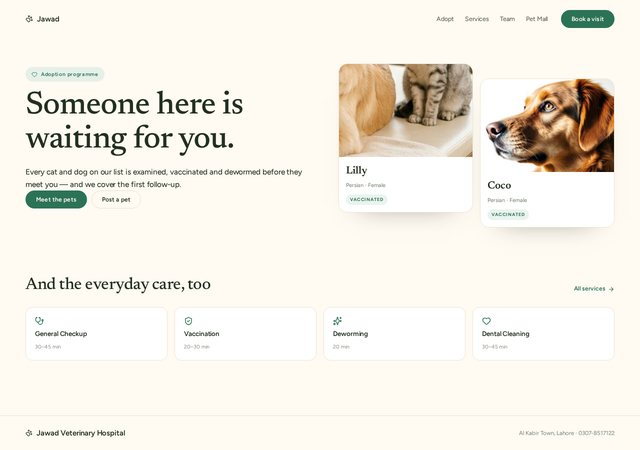
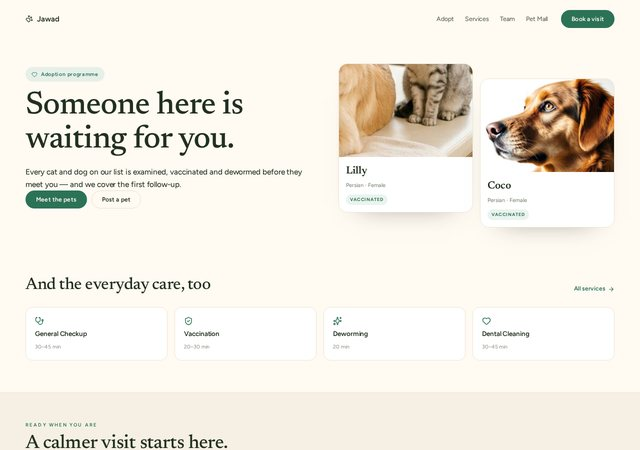
Round out the sample home pages with a shared closing band
Every one of the twenty studies now ends with a booking CTA, the three
client reviews and a trust strip, all styled from that study's own tokens
so each keeps its typography and palette. Also tightens mobile navigation:
the Swiss nav collapses, clinical's phone/CTA wraps, footer lockups drop
the display letter-spacing, and every page is checked for horizontal
overflow at 390px.

Changed region(s): [[0.0312, 0.9333, 0.375, 1.0], [0.9062, 0.9333, 0.9375, 0.9644], [0.8125, 0.9333, 0.8438, 0.9644]]

diff --git a/src/app/sample/samples.css b/src/app/sample/samples.css
@@ -42,7 +42,7 @@
 /* ── shared base ──────────────────────────────────────────────────── */
 .smp { --serif: 'Cormorant Garamond Variable', Georgia, serif; --sans: 'Instrument Sans Variable', Arial, sans-serif;
   --i: #14231f; --a: #1c5d5c; --p: #fbf7ee; --s: #f4eee1; --line: #e3dac8;
-  font-family: var(--sans); color: var(--i); background: var(--p); min-height: 100dvh;
+  font-family: var(--sans); color: var(--i); background: var(--p); min-height: 100dvh; overflow-x: clip;
   display: flex; flex-direction: column; -webkit-font-smoothing: antialiased; }
 .smp * { box-sizing: border-box; }
 .smp h1, .smp h2, .smp h3 { font-family: var(--serif); font-weight: 500; margin: 0; letter-spacing: -0.015em; line-height: 1.06; }
@@ -131,19 +131,77 @@
 .smp-stat b { display: block; font-family: var(--serif); font-size: 34px; font-weight: 500; line-height: 1; }
 .smp-stat span { display: block; margin-top: 7px; font-size: 9px; letter-spacing: .18em; text-transform: uppercase; opacity: .6; }
 
+.smp-foot .smp-brand { letter-spacing: .01em; font-size: 14px; }
 .smp-foot { margin-top: auto; border-top: 1px solid var(--line); padding: 22px clamp(18px, 4vw, 56px); }
 .smp-foot-in { display: flex; align-items: center; justify-content: space-between; gap: 16px; flex-wrap: wrap; }
 .smp-foot-meta { font-size: 11.5px; color: #7d8c88; }
 
 @media (max-width: 900px) {
+  .smp--swiss .smp-nav nav { display: none; }
   .smp-hero, .smp-split { grid-template-columns: 1fr; }
   .smp-grid-3, .smp-grid-4 { grid-template-columns: repeat(2, 1fr); }
   .smp-nav nav { display: none; }
   .smp-nav-center { display: flex; }
 }
 @media (max-width: 560px) {
+  .smp-nav { flex-wrap: wrap; row-gap: 12px; }
+  .smp-nav-cta { margin-left: auto; }
   .smp-grid-3, .smp-grid-4 { grid-template-columns: 1fr; }
   .smp-hero-copy h1 { font-size: 38px; }
+}
+
+
+/* ── shared closing band (inherits each study's own tokens) ─────────── */
+.smp-tail { padding: clamp(34px, 4.4vw, 60px) clamp(18px, 4vw, 56px) clamp(24px, 3vw, 34px); background: var(--s); color: var(--i); border-top: 1px solid var(--line); }
+.smp-tail-in { display: flex; align-items: flex-end; justify-content: space-between; gap: 28px; flex-wrap: wrap; }
+.smp-tail-copy { max-width: 46ch; display: grid; gap: 10px; }
+.smp-tail-copy h2 { font-size: clamp(26px, 3vw, 40px); }
+.smp-tail-copy p { font-size: 13px; line-height: 1.7; opacity: .72; }
+.smp-tail-actions { display: flex; flex-wrap: wrap; gap: 9px; }
+.smp-tail-reviews { display: grid; grid-template-columns: repeat(3, minmax(0, 1fr)); gap: 0; margin-top: 32px; padding-top: 22px; border-top: 1px solid var(--line); }
+.smp-tail-reviews figure { display: grid; gap: 8px; align-content: start; margin: 0; padding: 0 24px 0 0; border-right: 1px solid var(--line); }
+.smp-tail-reviews figure + figure { padding-left: 24px; }
+.smp-tail-reviews figure:last-child { border-right: 0; padding-right: 0; }
+.smp-tail-reviews blockquote { margin: 0; font-family: var(--serif); font-size: 15.5px; line-height: 1.55; letter-spacing: -.005em; min-height: 3.1em; }
+.smp-tail-reviews figcaption { font-size: 10px; letter-spacing: .12em; text-transform: uppercase; opacity: .58; }
+.smp-tail-strip { display: flex; flex-wrap: wrap; gap: 14px 30px; margin-top: 32px; padding-top: 18px; border-top: 1px solid var(--line); font-size: 11px; letter-spacing: .02em; opacity: .68; }
+.smp-tail-strip li { display: flex; align-items: center; gap: 6px; }
+.smp-tail-strip svg { opacity: .7; flex: none; }
+
+.smp--brutal .smp-tail { border-top: 2px solid #111; }
+.smp--brutal .smp-tail .smp-btn-2 { border: 2px solid #111; border-radius: 0; color: #111; box-shadow: 4px 4px 0 #111; }
+.smp--brutal .smp-tail-strip { border-top: 2px solid #111; opacity: .8; }
+.smp--midnight .smp-tail { background: #0b0f0d; border-top: 1px solid rgba(201, 169, 97, .22); }
+.smp--midnight .smp-tail .smp-btn-2 { border-color: rgba(201, 169, 97, .45); color: #d9c48e; }
+.smp--midnight .smp-tail .smp-kicker { color: #c9a961; }
+.smp--immersive .smp-tail { background: #0c1513; border-top: 1px solid rgba(246, 242, 231, .12); }
+.smp--immersive .smp-tail .smp-kicker { color: #d8c590; }
+.smp--glass .smp-tail { position: relative; z-index: 2; background: rgba(255, 255, 255, .05); border-top: 1px solid rgba(255, 255, 255, .12); }
+.smp--glass .smp-tail .smp-kicker { color: #9fe0c6; }
+.smp--app .smp-tail { grid-column: 1 / -1; background: #fff; }
+.smp--app .smp-tail-strip { opacity: .8; }
+.smp--app .smp-tail .smp-kicker { color: #1f6f62; }
+.smp--editorial .smp-tail { background: #f7f2e6; }
+.smp--swiss .smp-tail { border-top: 2px solid #111; }
+.smp--swiss .smp-tail .smp-btn { border-radius: 0; }
+.smp--swiss .smp-tail .smp-btn-2 { border-radius: 0; }
+.smp--brutal .smp-tail .smp-btn, .smp--brutal .smp-tail .smp-btn-2 { border-radius: 0; }
+.smp--duotone .smp-tail { background: #102a26; color: #fdf3e6; border-top: 0; }
+.smp--duotone .smp-tail .smp-kicker { color: #e86f43; }
+.smp--duotone .smp-tail .smp-btn { background: #e86f43; color: #fff; }
+.smp--duotone .smp-tail .smp-btn-2 { border-color: rgba(253, 243, 230, .35); color: #fdf3e6; }
+.smp--duotone .smp-tail-strip { border-top-color: rgba(253, 243, 230, .2); }
+.smp--cover .smp-tail { background: #efe7d7; }
+.smp--heritage .smp-tail { background: #f2ebdb; border-top: 3px double #c2ad86; }
+.smp--mall .smp-tail .smp-btn-2 { border-color: #cfc3aa; }
+@media (max-width: 860px) {
+  .smp-tail-in { align-items: flex-start; }
+  .smp-tail-reviews { grid-template-columns: 1fr; gap: 16px; }
+  .smp-tail-reviews figure { border-right: 0; border-bottom: 1px solid var(--line); padding: 0 0 14px; }
+  .smp-tail-reviews figure + figure { padding-left: 0; }
+  .smp-tail-reviews figure:last-child { border-bottom: 0; padding-bottom: 8px; }
+  .smp-tail-strip { margin-top: 28px; }
+  .smp--app .smp-tail { grid-column: auto; }
 }
 
 /* ══ 01 · AURORA SPLIT ══════════════════════════════════════════════════ */
@@ -214,7 +272,7 @@
 }
 .smp--midnight .smp-nav { border-bottom: 1px solid rgba(201, 169, 97, .18); padding-block: 22px; }
 .smp--midnight .smp-nav nav { font-size: 10.5px; letter-spacing: .18em; text-transform: uppercase; color: rgba(244, 239, 227, .68); }
-.smp--midnight .smp-brand { font-family: var(--serif); font-size: 19px; letter-spacing: .3em; }
+.smp--midnight .smp-nav .smp-brand { font-family: var(--serif); font-size: 19px; letter-spacing: .3em; }
 .smp--midnight .smp-btn-line { background: transparent; border-color: rgba(201, 169, 97, .55); color: #d9c48e; font-size: 10.5px; letter-spacing: .14em; text-transform: uppercase; }
 .smp--midnight .smp-btn-line:hover { background: rgba(201, 169, 97, .12); }
 .smp--midnight .smp-hero-mid { padding-block: clamp(50px, 7vw, 92px); align-items: end; }
@@ -499,8 +557,8 @@
   display: grid; grid-template-columns: 244px minmax(0, 1fr); background: #f7f8f9; --sans: 'Figtree Variable', Arial, sans-serif;
 }
 .smp--app .smp-side {
-  position: sticky; top: 44px; align-self: start; display: flex; flex-direction: column; gap: 22px;
-  height: calc(100dvh - 44px); padding: 22px 16px; background: #12302b; color: #dfe9e4;
+  display: flex; flex-direction: column; gap: 22px; align-self: stretch;
+  padding: 22px 16px; background: #12302b; color: #dfe9e4;
 }
 .smp--app .smp-side .smp-brand { font-family: var(--serif); font-size: 21px; color: #fff; padding-left: 6px; }
 .smp--app .smp-side nav { display: grid; gap: 3px; }
@@ -556,7 +614,8 @@
   --serif: 'Bodoni Moda Variable', 'Times New Roman', serif; background: #fdf3e6;
 }
 .smp--duotone .smp-nav-invert { padding-block: 20px; }
-.smp--duotone .smp-brand { font-size: 13px; letter-spacing: .3em; font-weight: 700; }
+.smp--duotone .smp-nav .smp-brand { font-size: 13px; letter-spacing: .3em; font-weight: 700; }
+.smp--duotone .smp-foot .smp-brand { letter-spacing: .01em; }
 .smp--duotone .smp-nav nav { font-size: 10.5px; letter-spacing: .16em; text-transform: uppercase; }
 .smp--duotone .smp-btn-flat { border-radius: 0; background: #102a26; color: #fdf3e6; font-size: 10.5px; letter-spacing: .14em; text-transform: uppercase; }
 .smp--duotone .smp-btn-flat:hover { background: #e86f43; color: #fff; }
@@ -980,4 +1039,9 @@
   .smp--immersive .smp-full-copy h1 { font-size: 36px; }
   .smp--midnight .smp-hero-copy h1 { font-size: 40px; }
   .smp--booking .smp-two { grid-template-columns: 1fr; }
+}
+
+/* late overrides — must follow the per-variant blocks */
+@media (max-width: 900px) {
+  .smp--swiss .smp-nav nav { display: none; }
 }

diff --git a/src/components/samples/variants.tsx b/src/components/samples/variants.tsx
@@ -34,6 +34,38 @@ function Foot() {
   );
 }
 
+function Tail() {
+  return (
+    <section className="smp-tail">
+      <div className="smp-tail-in">
+        <div className="smp-tail-copy">
+          <span className="smp-kicker">Ready when you are</span>
+          <h2>A calmer visit starts here.</h2>
+          <p>Home visits across Lahore and a fully equipped hospital in Al Kabir Town — same-day slots, seven days a week.</p>
+        </div>
+        <div className="smp-tail-actions">
+          <a className="smp-btn">Book a home visit <ArrowRight size={14} /></a>
+          <a className="smp-btn-2"><Phone size={13} /> 0307-8517122</a>
+        </div>
+      </div>
+      <div className="smp-tail-reviews">
+        {REVIEWS.map((r) => (
+          <figure key={r.name}>
+            <Stars />
+            <blockquote>“{r.text}”</blockquote>
+            <figcaption>{r.name} · {r.tag}</figcaption>
+          </figure>
+        ))}
+      </div>
+      <ul className="smp-tail-strip">
+        {["24/7 emergency line", "RVMP-registered vets", "Free follow-up visit", "Cash, Easypaisa or transfer"].map((t) => (
+          <li key={t}><Check size={12} /> {t}</li>
+        ))}
+      </ul>
+    </section>
+  );
+}
+
 const ICONS = [Stethoscope, ShieldCheck, Sparkles, Heart, Phone, Truck];
 
 function ServiceIcon({ i }: { i: number }) {
@@ -88,6 +120,7 @@ export function AuroraSplit() {
           ))}
         </div>
       </section>
+      <Tail />
       <Foot />
     </div>
   );
@@ -131,6 +164,7 @@ export function GrandEditorial() {
           </ul>
         </div>
       </section>
+      <Tail />
       <Foot />
     </div>
   );
@@ -178,6 +212,7 @@ export function MidnightLuxe() {
           ))}
         </div>
       </section>
+      <Tail />
       <Foot />
     </div>
   );
@@ -224,6 +259,7 @@ export function ClinicalCalm() {
           ))}
         </div>
       </section>
+      <Tail />
       <Foot />
     </div>
   );
@@ -266,6 +302,7 @@ export function BentoClinic() {
           {STATS.map((s) => <div key={s.l} className="smp-stat"><b>{s.v}</b><span>{s.l}</span></div>)}
         </div>
       </section>
+      <Tail />
       <Foot />
     </div>
   );
@@ -309,6 +346,7 @@ export function BookingFirst() {
           ))}
         </div>
       </section>
+      <Tail />
       <Foot />
     </div>
   );
@@ -340,6 +378,7 @@ export function MagazineSpread() {
           <a><b>Adopting in Lahore</b><small>Four cats looking</small></a>
         </aside>
       </section>
+      <Tail />
       <Foot />
     </div>
   );
@@ -391,6 +430,7 @@ export function WarmBoutique() {
           <cite>Hinnana Iqbal · DHA</cite>
         </div>
       </section>
+      <Tail />
       <Foot />
     </div>
   );
@@ -427,6 +467,7 @@ export function SwissGrid() {
           </a>
         ))}
       </section>
+      <Tail />
       <Foot />
     </div>
   );
@@ -466,6 +507,7 @@ export function ImmersiveOverlay() {
           </ul>
         </div>
       </section>
+      <Tail />
       <Foot />
     </div>
   );
@@ -561,6 +603,7 @@ export function SidebarApp() {
           </div>
         </section>
       </main>
+      <Tail />
       <Foot />
     </div>
   );
@@ -604,6 +647,7 @@ export function DuotonePoster() {
           ))}
         </div>
       </section>
+      <Tail />
       <Foot />
     </div>
   );
@@ -644,6 +688,7 @@ export function PetFirst() {
           ))}
         </div>
       </section>
+      <Tail />
       <Foot />
     </div>
   );
@@ -695,6 +740,7 @@ export function MallFirst() {
           <p className="smp-lead">Same-day inside Lahore. Cold-chain items travel in insulated boxes.</p>
         </div>
       </section>
+      <Tail />
       <Foot />
     </div>
   );
@@ -727,6 +773,7 @@ export function CoverStory() {
           <li><b>2.4k</b><span>visits made</span></li>
         </ul>
       </section>
+      <Tail />
       <Foot />
     </div>
   );
@@ -764,6 +811,7 @@ export function GlassModern() {
       <section className="smp-glass-band">
         {STATS.map((s) => <div key={s.l} className="smp-glass-stat"><b>{s.v}</b><span>{s.l}</span></div>)}
       </section>
+      <Tail />
       <Foot />
     </div>
   );
@@ -809,6 +857,7 @@ export function HeritageCrest() {
           ))}
         </div>
       </section>
+      <Tail />
       <Foot />
     </div>
   );
@@ -845,6 +894,7 @@ export function NeoBrutal() {
           </article>
         ))}
       </section>
+      <Tail />
       <Foot />
     </div>
   );
@@ -884,6 +934,7 @@ export function SoftGradient() {
           </article>
         ))}
       </section>
+      <Tail />
       <Foot />
     </div>
   );
@@ -925,6 +976,7 @@ export function SplitStats() {
           ))}
         </div>
       </section>
+      <Tail />
       <Foot />
     </div>
   );
